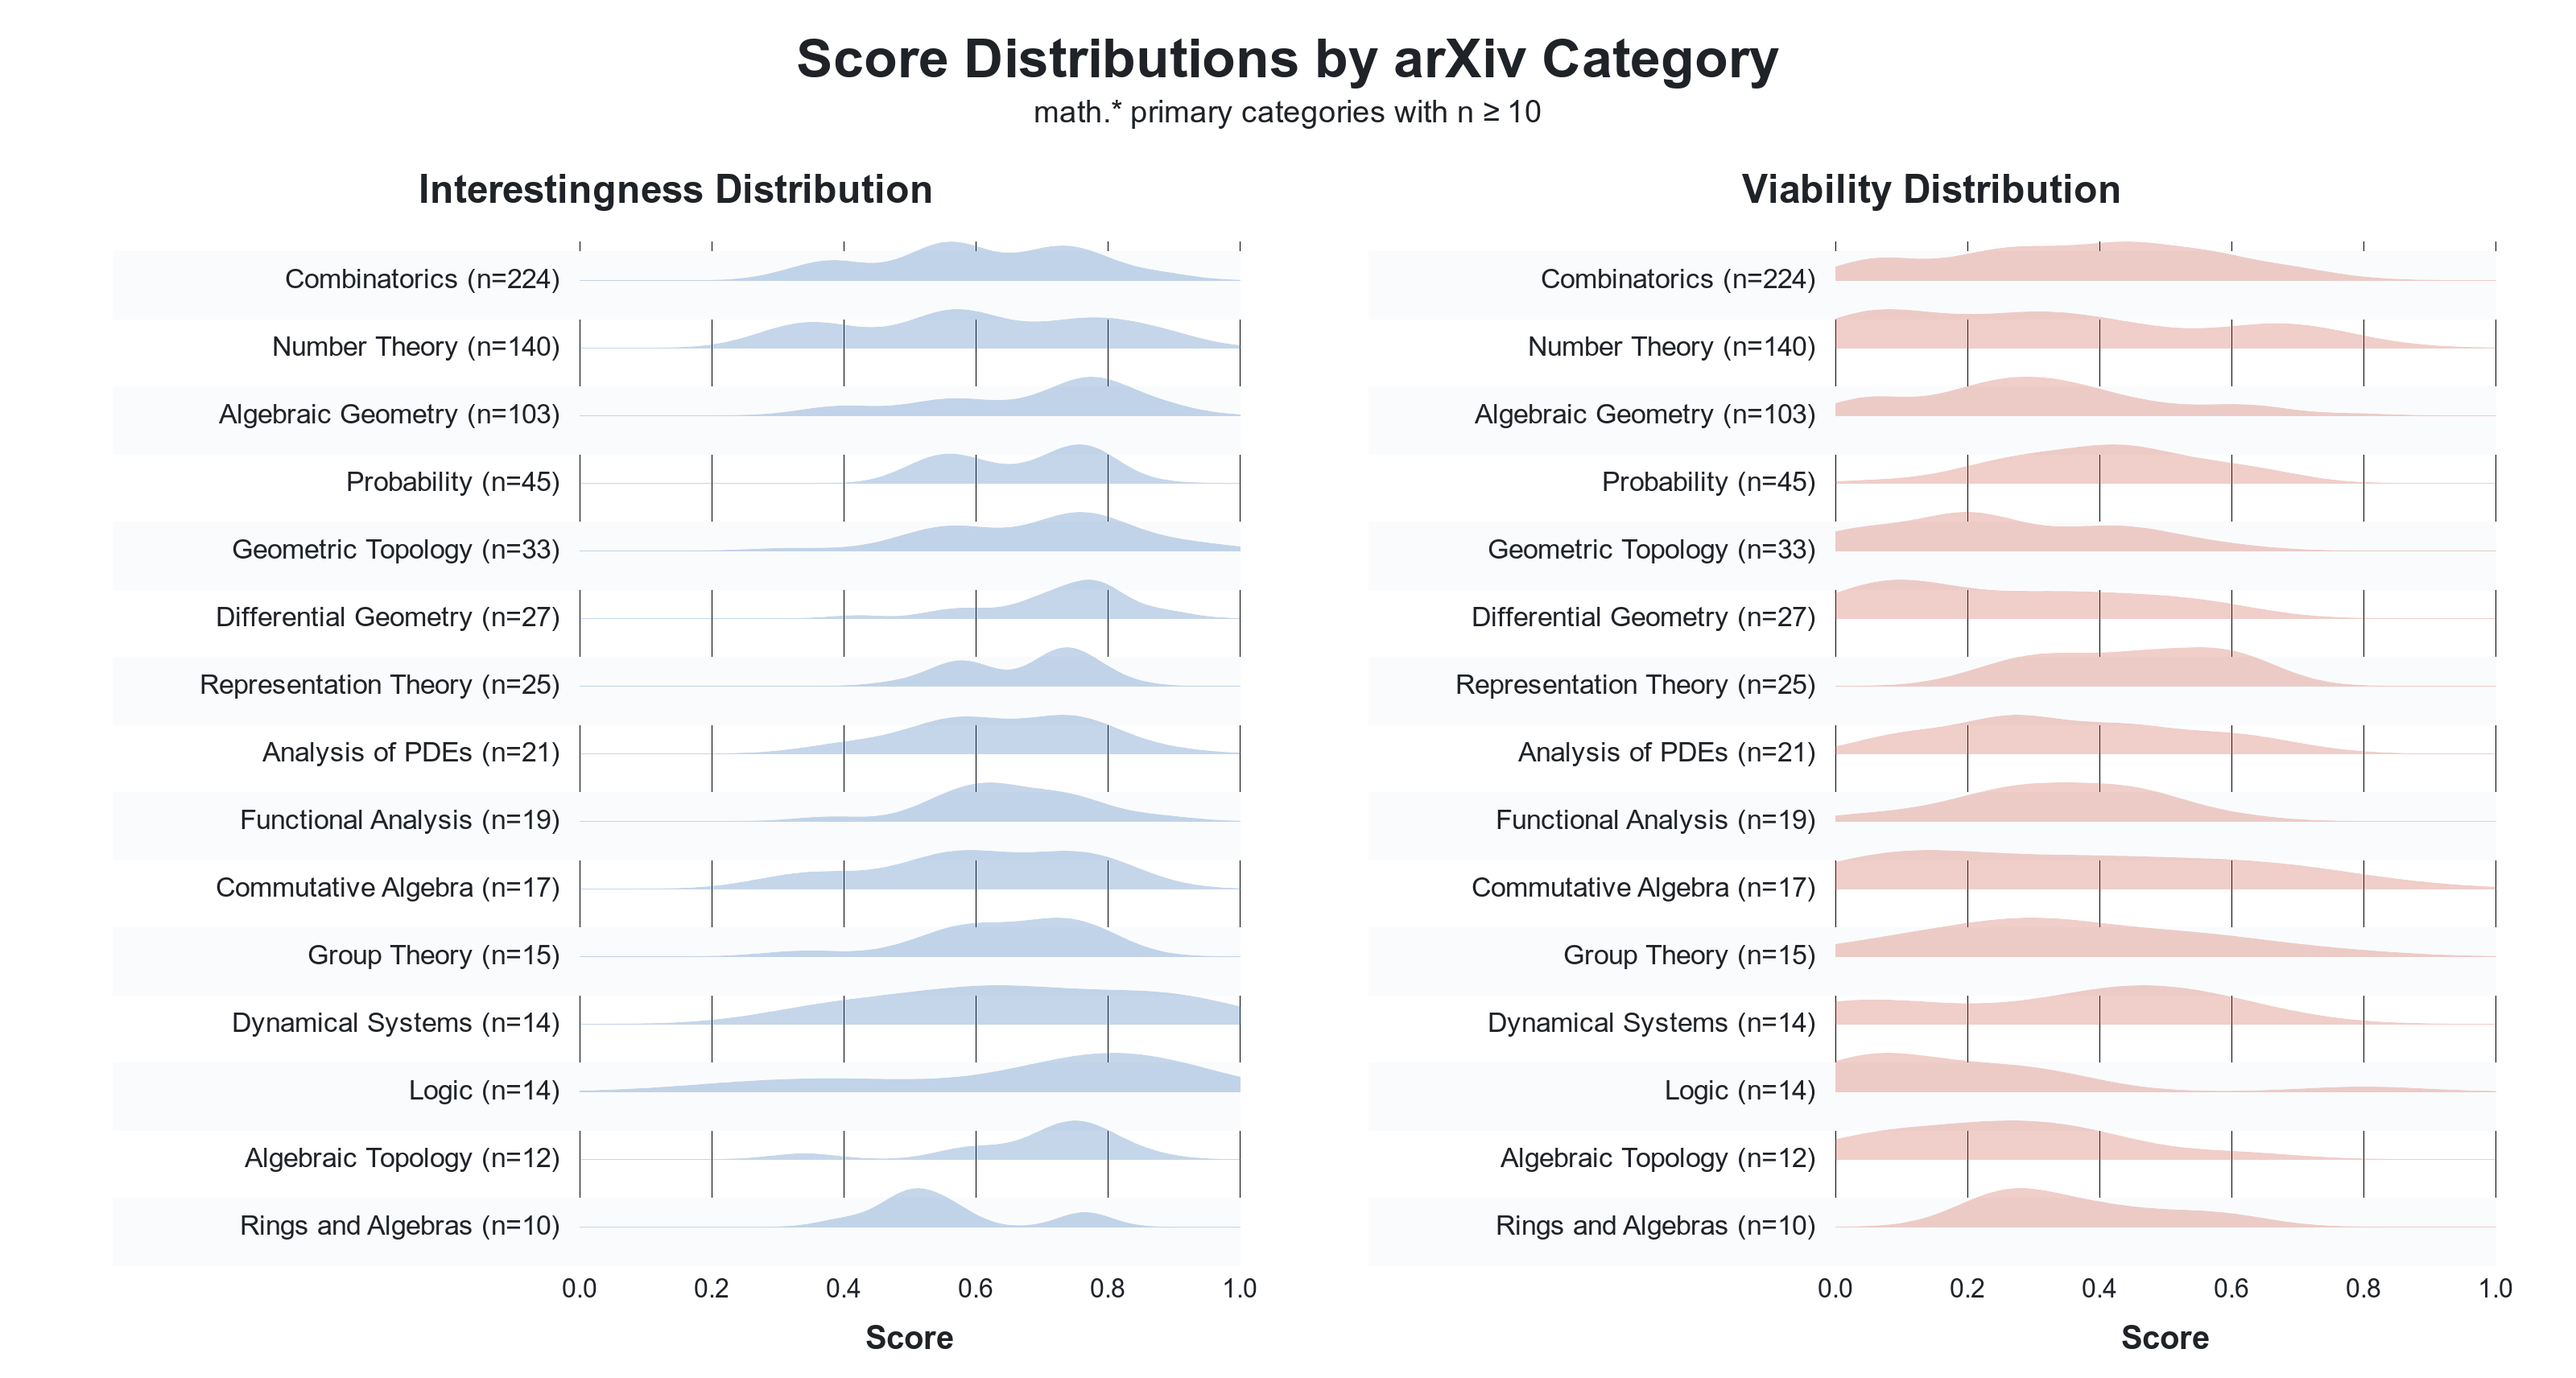
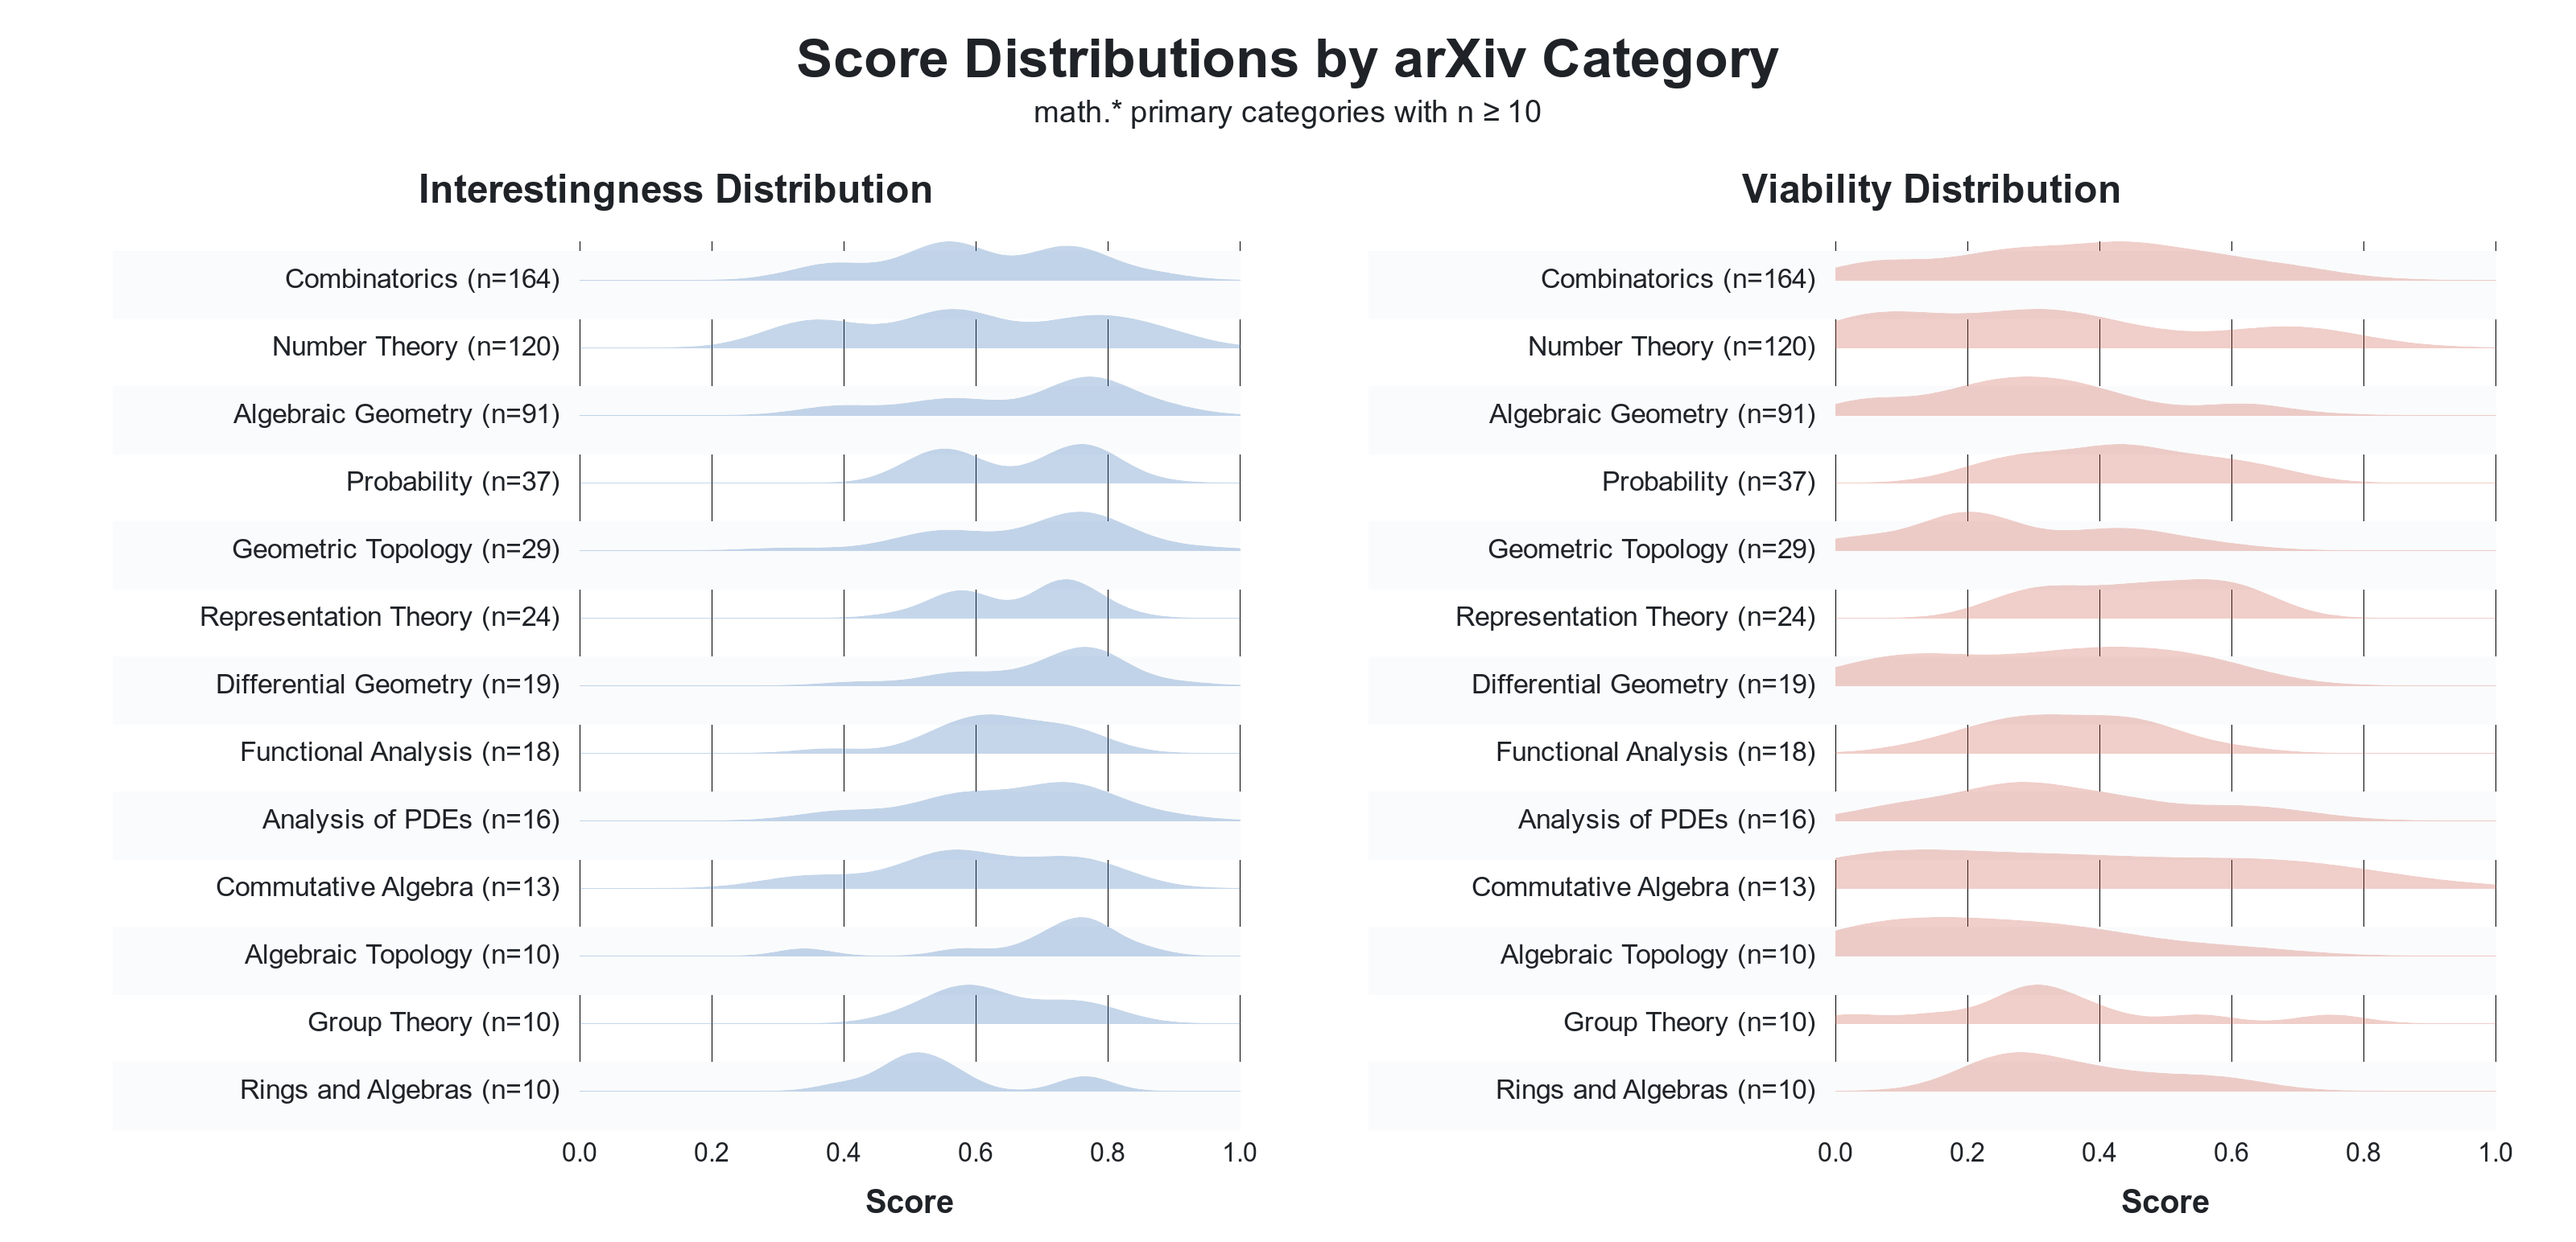
Refresh OpenConjecture March 17 data

diff --git a/blog/openconjecture.html b/blog/openconjecture.html
@@ -37,7 +37,7 @@
               <div class="writing-post-type mono-font">Essay</div>
               <h1 class="writing-post-title">Introducing OpenConjecture, a living dataset of mathematics conjectures from the ArXiv</h1>
               <p class="writing-post-dek mono-font">
-                We are releasing OpenConjecture, a dataset of 850 unproved conjectures from recent arXiv math papers. On a small subset, GPT-5.4 finds candidate proofs or counterexamples, and formalizes several in Lean.
+                We are releasing OpenConjecture, a dataset of 890 unproved conjectures from recent arXiv math papers. On a small subset, GPT-5.4 finds candidate proofs or counterexamples, and formalizes several in Lean.
               </p>
             </header>
 
@@ -67,7 +67,7 @@
 
           <article class="writing-post-body">
             <p>The mathematics literature is an ongoing discussion amongst the mathematical community, spanning both time and place. From this perspective, <em>conjectures</em> have a particularly important role, functioning as a direct call to the community to investigate a notable and unproven claim.</p>
-            <p>We are releasing <a href="https://huggingface.co/datasets/davisrbr/conjectures-arxiv" target="_blank" rel="noreferrer">OpenConjecture</a>, a living dataset of conjectures extracted from recent ArXiv papers. OpenConjecture is motivated by the observation that conjectures are scattered across a massive volume of papers uploaded each month. As the potential for AI acceleration of mathematics research increases, the value of organizing conjectures in one place has grown. Today&#39;s release contains 850 conjectures from papers uploaded between February 2, 2026 and March 16, 2026. We plan to update it weekly.</p>
+            <p>We are releasing <a href="https://huggingface.co/datasets/davisrbr/conjectures-arxiv" target="_blank" rel="noreferrer">OpenConjecture</a>, a living dataset of conjectures extracted from recent ArXiv papers. OpenConjecture is motivated by the observation that conjectures are scattered across a massive volume of papers uploaded each month. As the potential for AI acceleration of mathematics research increases, the value of organizing conjectures in one place has grown. Today&#39;s release contains 890 conjectures from papers uploaded between February 2, 2026 and March 17, 2026. We plan to update it weekly.</p>
             <p>There are a small number of other datasets that collect open math problems, e.g. <a href="https://epoch.ai/frontiermath/open-problems" target="_blank" rel="noreferrer">FrontierMath: Open Problems</a> and our own <a href="https://openreview.net/forum?id=tlniJJFUW2" target="_blank" rel="noreferrer">ACD</a>. These are well-curated datasets. However, datasets are small and represent only a small slice of the field.<sup class="writing-footnote-call"><a href="#note-1" id="note-ref-1">1</a></sup> In contrast, OpenConjecture samples from a wide variety of problems that, because of the way they are posed (as conjectures), suggest they are open and often interesting. Our approach is similar to <a href="https://matharena.ai/arxivmath/" target="_blank" rel="noreferrer">ArxivMath</a>, which also scrapes problems from recently published arXiv math papers. OpenConjecture, though, is composed of problems that have no known proofs or solutions.</p>
             <p>For each conjecture in OpenConjecture, we use an LLM to estimate conjecture tractability (could an expert resolve this in an afternoon vs. would it require a fundamentally new idea) and the extent a conjecture is ‘interesting’ (based on potential impact). We also use GPT-5.4 Thinking (xhigh) to attempt solutions on 20 of the most tractable conjectures. Of these 20, the model claimed to have reached a conclusion in 6 cases: in 2 cases it claimed to have confirmed an open conjecture, and in 4 cases it claims to have disproven the conjecture. In one of the cleanest examples, GPT-5.4 claimed a simple counterexample<sup class="writing-footnote-call"><a href="#note-2" id="note-ref-2">2</a></sup> to a conjecture on kernel quantile discrepancy rates published in a <a href="https://arxiv.org/abs/2505.20433" target="_blank" rel="noreferrer">recent ICML 2025 paper</a>. Summaries, discussion of the overlap with the prior literature, and the full proof attempts can be found <a href="https://github.com/davisrbr/conjectures-arxiv/blob/main/data/exports_solver_status_20260309_attempts20/solver_attempts_20_summary.md" target="_blank" rel="noreferrer">here</a>.</p>
             <p>It is important to note that the LLM-based assessments of both the interestingness/tractability of a problem, as well as LLM claims to proofs and counterexamples, must be taken with a healthy dose of skepticism. We are not experts in these fields. However, the idea of using LLMs to autonomously solve open problems in mathematics is now routinely discussed. The exercise of tasking GPT-5.4 with solving a subset of only roughly curated conjectures helps us to better understand what this might look like in real, research mathematics.</p>

diff --git a/blog/posts/openconjecture.md b/blog/posts/openconjecture.md
@@ -2,7 +2,7 @@
 
 The mathematics literature is an ongoing discussion amongst the mathematical community, spanning both time and place. From this perspective, *conjectures* have a particularly important role, functioning as a direct call to the community to investigate a notable and unproven claim.
 
-We are releasing [OpenConjecture](https://huggingface.co/datasets/davisrbr/conjectures-arxiv), a living dataset of conjectures extracted from recent ArXiv papers. OpenConjecture is motivated by the observation that conjectures are scattered across a massive volume of papers uploaded each month. As the potential for AI acceleration of mathematics research increases, the value of organizing conjectures in one place has grown. Today's release contains 850 conjectures from papers uploaded between February 2, 2026 and March 16, 2026. We plan to update it weekly.
+We are releasing [OpenConjecture](https://huggingface.co/datasets/davisrbr/conjectures-arxiv), a living dataset of conjectures extracted from recent ArXiv papers. OpenConjecture is motivated by the observation that conjectures are scattered across a massive volume of papers uploaded each month. As the potential for AI acceleration of mathematics research increases, the value of organizing conjectures in one place has grown. Today's release contains 890 conjectures from papers uploaded between February 2, 2026 and March 17, 2026. We plan to update it weekly.
 
 There are a small number of other datasets that collect open math problems, e.g. [FrontierMath: Open Problems](https://epoch.ai/frontiermath/open-problems) and our own [ACD](https://openreview.net/forum?id=tlniJJFUW2). These are well-curated datasets. However, datasets are small and represent only a small slice of the field.[^1] In contrast, OpenConjecture samples from a wide variety of problems that, because of the way they are posed (as conjectures), suggest they are open and often interesting. Our approach is similar to [ArxivMath](https://matharena.ai/arxivmath/), which also scrapes problems from recently published arXiv math papers. OpenConjecture, though, is composed of problems that have no known proofs or solutions.
 
